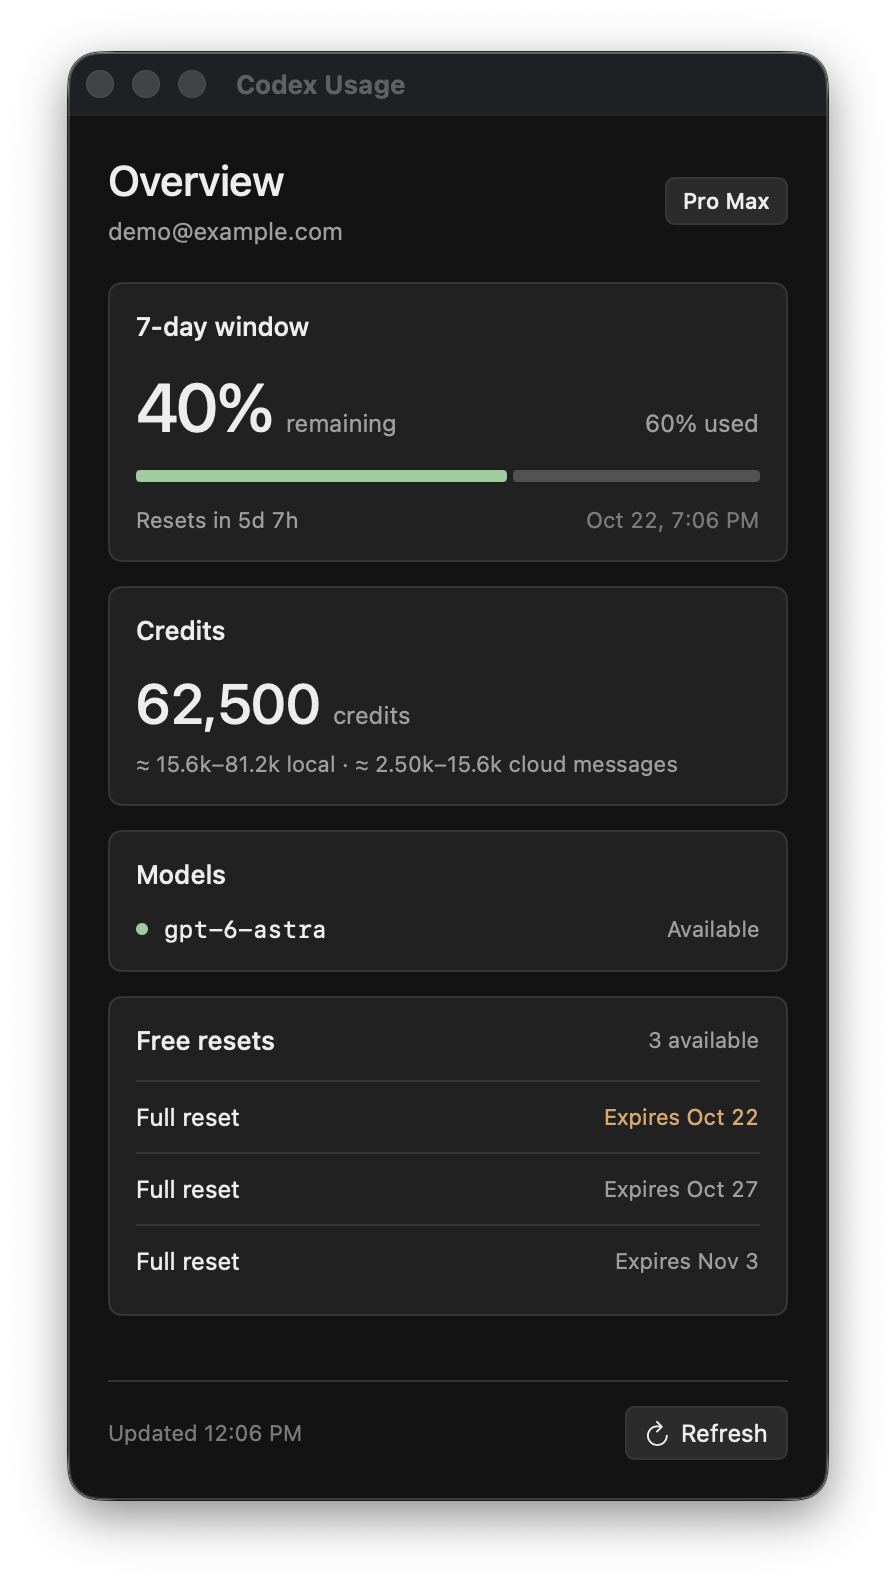
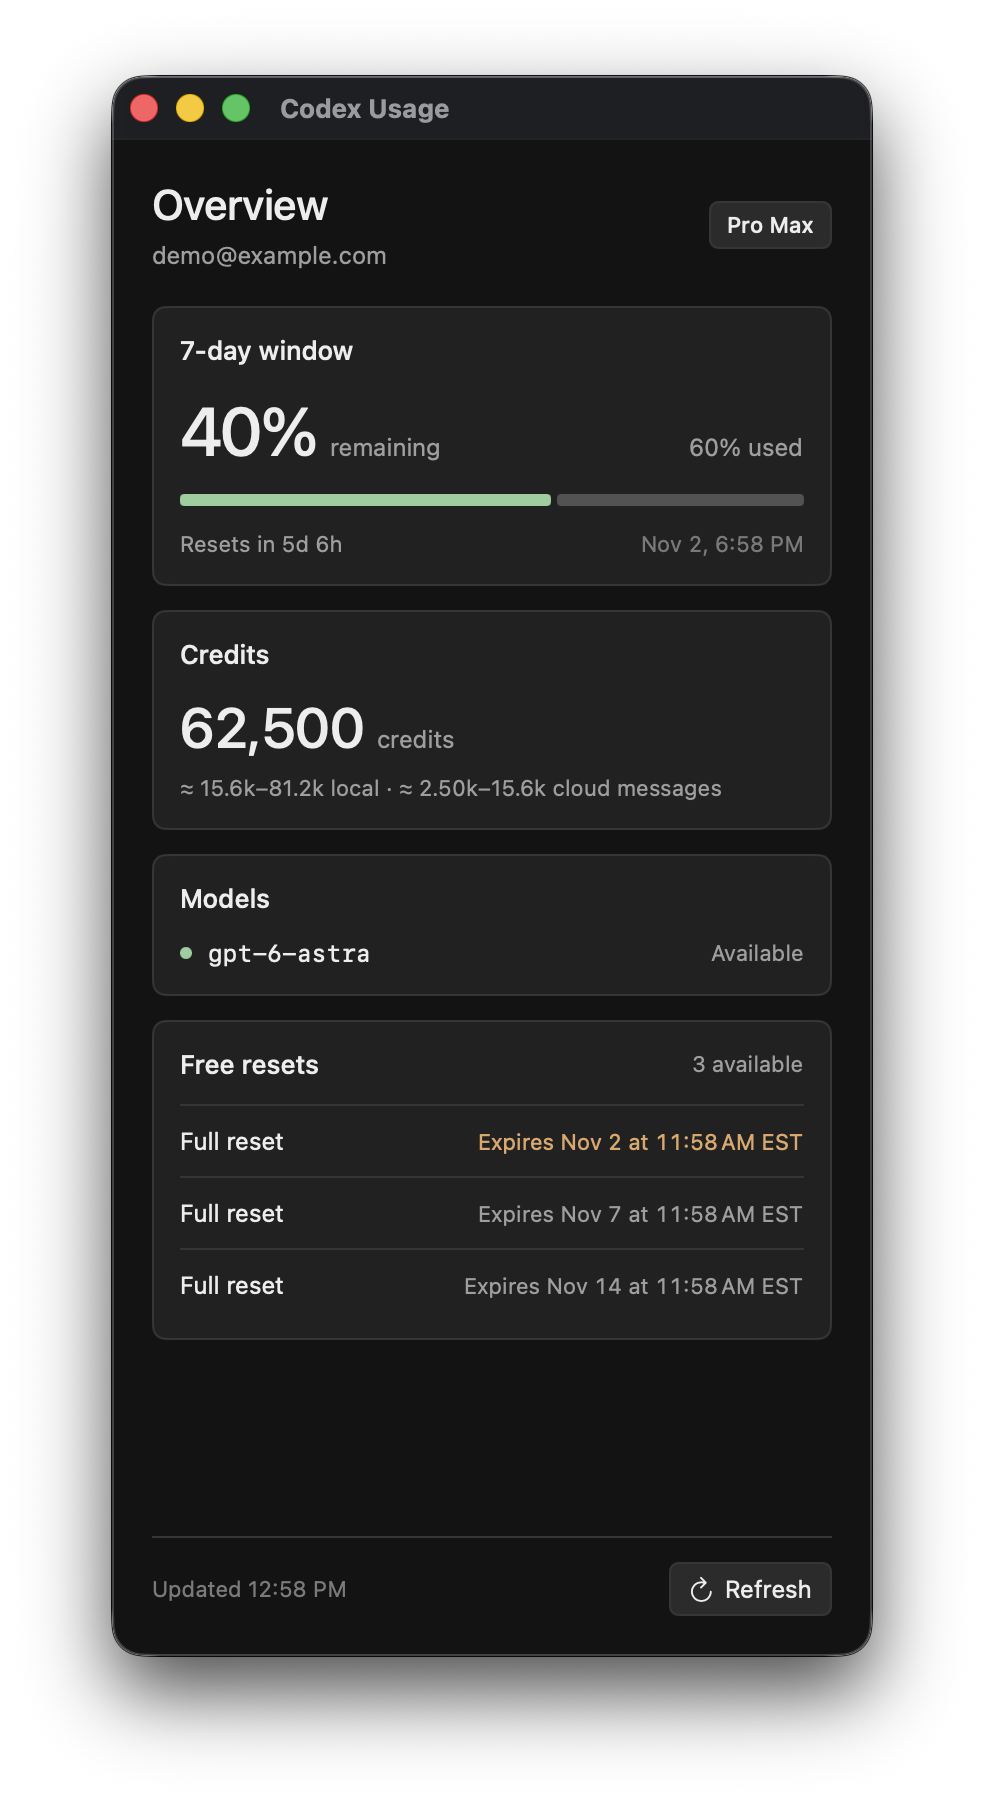
fix: show reset expiry times

diff --git a/Sources/CodexUsage/UsageView.swift b/Sources/CodexUsage/UsageView.swift
@@ -336,17 +336,19 @@ struct UsageView: View {
     }
 
     private func resetRow(_ credit: ResetCredit) -> some View {
-        HStack(spacing: 10) {
+        HStack(alignment: .firstTextBaseline, spacing: 10) {
             Text(credit.title ?? "Rate limit reset")
                 .font(.system(size: 12))
                 .lineLimit(1)
                 .truncationMode(.tail)
-            Spacer()
+            Spacer(minLength: 0)
             if let expires = credit.expiresAt {
-                Text("Expires \(DateFormatters.short.string(from: expires))")
+                Text("Expires \(DateFormatters.expiration.string(from: expires))")
                     .font(.system(size: 11))
                     .foregroundStyle(expires.timeIntervalSinceNow < 7 * 24 * 60 * 60 ? Palette.orange : Palette.secondary)
                     .monospacedDigit()
+                    .fixedSize()
+                    .help(expires.formatted(date: .long, time: .complete))
             }
         }
     }
@@ -662,9 +664,10 @@ enum DateFormatters {
         return formatter
     }()
 
-    static let short: DateFormatter = {
+    static let expiration: DateFormatter = {
         let formatter = DateFormatter()
-        formatter.dateFormat = "MMM d"
+        formatter.timeZone = .autoupdatingCurrent
+        formatter.setLocalizedDateFormatFromTemplate("MMMdjmz")
         return formatter
     }()
 }
